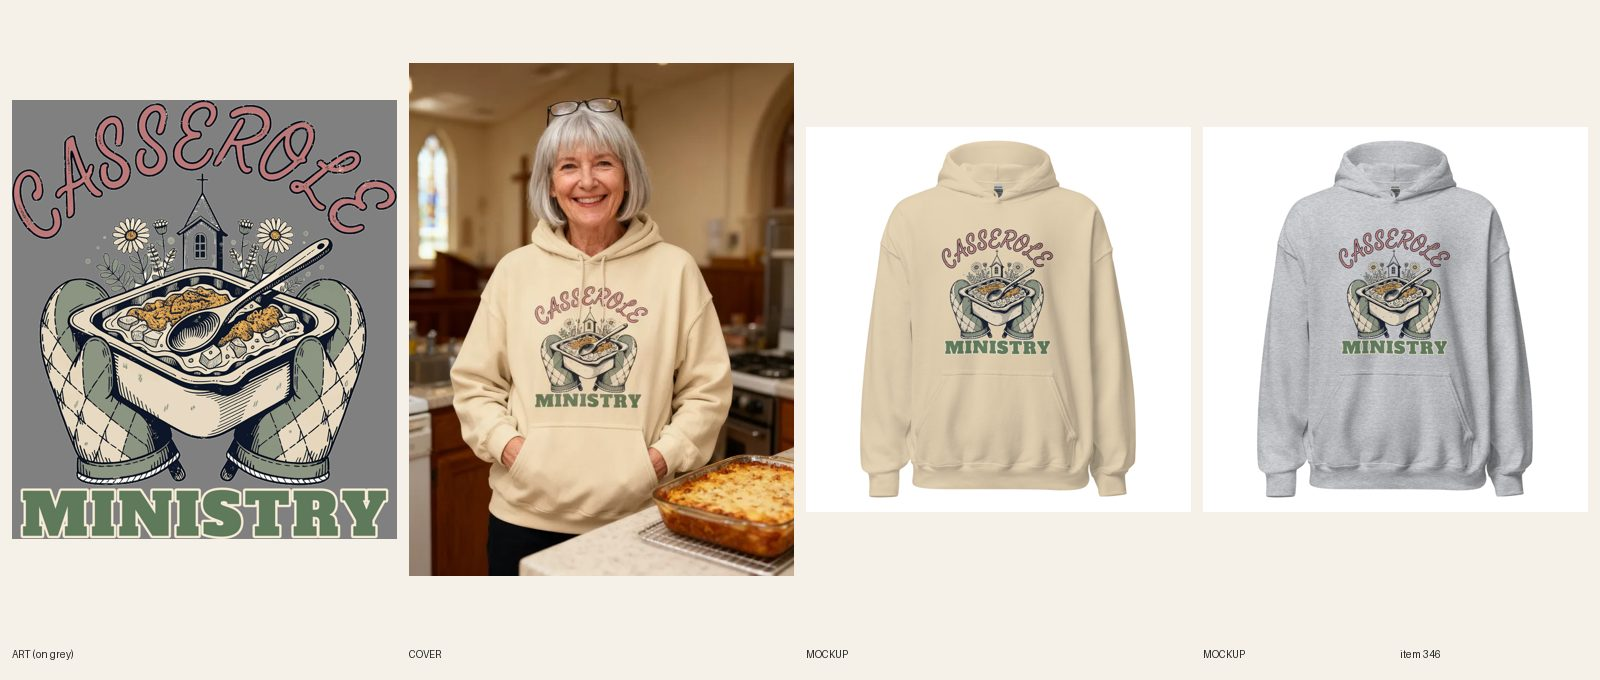
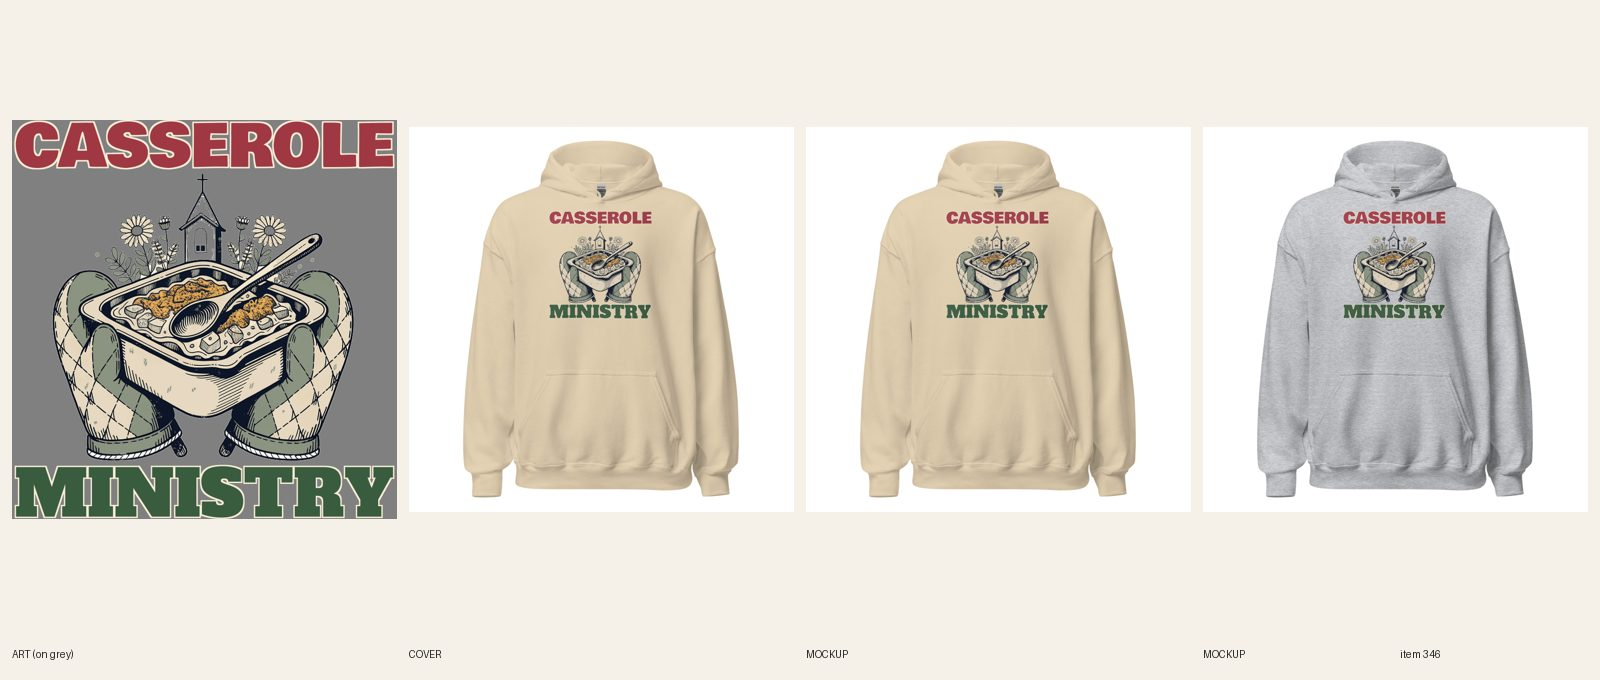
[C] review 346 (redo)
Claude-Session: https://claude.ai/code/session_01CCHcDj8LcJJ8qUPtKE3cvn

Changed region(s): [[0.0, 0.0926, 0.5, 0.8647], [0.8438, 0.3088, 0.9062, 0.525], [0.5938, 0.3088, 0.6562, 0.525]]

diff --git a/designs/c346/make.py b/designs/c346/make.py
@@ -1,0 +1,11 @@
+import sys; sys.path.insert(0,'.')
+from designs.lib import *
+import numpy as np
+im=Image.open('designs/c346/art_clean.png').convert('RGBA'); W=im.width
+a=np.array(im)[:,:,3]; rows=np.where((a>40).any(1))[0]; y0=rows.min(); 
+art=im.crop((0,y0,W,3603)); art=art.crop(art.getbbox()); art=art.resize((int(art.width*0.92),int(art.height*0.92)),Image.LANCZOS)
+ROSE=(160,56,68,255); GREEN=(58,92,62,255)
+for tag,bg in (('sand',(214,196,160,255)),('grey',(160,160,165,255))):
+    h1=line("CASSEROLE",'bowlby',0.985,W,ROSE,CREAM,kw=29); h2=line("MINISTRY",'alfa',0.985,W,GREEN,CREAM,kw=27)
+    print(tag,'headline px',h1.width,'punch px',h2.width,'heights',h1.height,h2.height,'art',art.size)
+    out=lockup(art,W,[h1],[h2],f'346-v2-casserole-{tag}',{tag:bg}); print(out.size,out.height/out.width)

diff --git a/docs/pipeline/346-christian-hoodie-casserole-ministry.md b/docs/pipeline/346-christian-hoodie-casserole-ministry.md
@@ -1,4 +1,4 @@
-status: BUILDING [C] 2026-10-20 09:58
+status: REVIEW
 lane: C
 type: twin
 id: 346
@@ -28,3 +28,4 @@ kd: 50
 - 2026-10-17 21:22 UTC builder [C]: REVIEW. Sync 12/12. Sheet docs/review/346.jpg. design-crops and variant-photo audit cover published products only: rerun when ACTIVE. Local cohesion audit not run (no spec file); copy checked by hand against the art. Twin: MINISTRY re-lettered, see log.
 - 2026-10-17 22:39 UTC director: APPROVED, LIVE. ACTIVE + Online Store, Headless and Google & YouTube; audit --handle PASS (0 warn). Copy polished by the director first (R8: keyword counts, superlatives, false claims).
 - 2026-10-18 17:22 UTC director: QUALITY RESET grade C (new line + type), REDO. The product stays ACTIVE (same handle, URL, title keyword). 1. Line (R3.12, quality-reset 'Lines'): "CASSEROLE / MINISTRY": Church-insider label, not a joke; thin arched script top. Write 5 candidates, keep the one a stranger laughs at in 3 seconds without backstory; kill lines that only describe the picture; if none of the 5 is funny, PARK it. 2. Quality reset type bar (docs/backlog/quality-reset.md, 'The new bar'): headline at least 90% of the art width, heavy, colors pulled from the art; second line at least 45% of the headline's height, never a thin script on a dark or mid garment; use the lettering as a shape (arch, stacked lockup, words breaking into the art), not a plain bar above and a script line below; no font used on more than 1 in 6 of the last 30 designs. 3. Keep the art if it carries the new line, else one new illustration (R4/R5). New print means a new cover per R6.10, copy line one rewritten for the new joke (R8.3), and a fresh review sheet (R7.7). While quality-reset.md says PAUSED, only lane A builds, and only the samples step 2 names.
+- 2026-10-20 10:03 UTC builder [C]: REDO type only (faith insider design, R3.14: judged on lettering; Sam's 2026-10-19 re-grade). Line kept: CASSEROLE / MINISTRY is the same joke as the live tee #127 and crewneck #270 and twins carry the design's line (R3.9), so no new line and the title is unchanged (card 7i not triggered). Old thin rose script arched over the steeple erased from the art with a colour mask (rose pixels, plus leftover specks) and replaced by CASSEROLE in Bowlby One, deep rose with a cream keyline, 98.5% of the print width; MINISTRY in Alfa Slab One, deep green with a cream keyline, 98.5% width. Measured ink widths (card 7h): CASSEROLE 3557 px / MINISTRY 3552 px (99.9%, both about 3,555 px and equally heavy). Art scaled to 92% so the print is 3600 x 3728 (FW 1500 TOP 0, about 1,550 px high). Sand + Sport Grey both light, dark ink, no cream fill: one file; Sand file 1090289536, Sport Grey file 1090289614 (same art; docs/print-files/346-v2-casserole-sand.png / -grey.png). 12/12 relinked (verified on the API). 2 fronts replaced in place, read at phone size. Story and FAQ lettering sentences updated. Handle in retired-covers.json. Plain product shot. fal $0.

diff --git a/docs/intake-log.md b/docs/intake-log.md
@@ -27,6 +27,7 @@ RUNNING lane B since 2026-10-20 09:02 UTC
 2026-10-20 07:44 UTC — [B] Builder run: REDO round 3 of #455 Unisex Hanukkah Lost My Gelt crewneck (dreidel face marks painted out, Navy file 1090236634 + Sport Grey file 1090236680, FW 1650 TOP 0, 12/12 relinked, 2 fronts replaced in place) and #469 Women's Christmas embroidered crewneck (new line BOOKED / THROUGH JANUARY., headline 2197 / punch 2197 px, Sand file 1090237592 + Navy file 1090237605, 12/12 synced, title/SEO/copy/alts updated). Both REVIEW. #498 left for director (R3.14 note). fal $0.
 2026-10-20 08:00 UTC — [E] Builder run: redid #608 Women's Pickleball tee (line + type: POLITE SMILE. / PERSONAL VENDETTA., same serene-lady art, Bevan, dark-ink file on 5 light colors, 30/30 synced). REVIEW. fal $0.
 RUNNING lane C since 2026-10-20 07:00 UTC
+2026-10-20 10:03 UTC — [C] Builder run: redid #346 Women's Christian Casserole Ministry hoodie (type only, faith insider joke kept: CASSEROLE Bowlby rose + MINISTRY Alfa green full width, old arched script erased, Sand file 1090289536 + Sport Grey file 1090289614, FW 1500 TOP 0, 12/12 relinked, 2 fronts replaced in place, copy updated). REVIEW. fal $0.
 2026-10-20 09:58 UTC — [C] Builder run: redid #607 Women's Pickleball hoodie (new line + type: STAY OUT OF THE KITCHEN. / WE'RE TALKING., headline 3305 px / punch 3322 px, Big Shoulders + Bowlby, same three-friends art, Sand file 1090287555 + Navy file 1090287613, FW 1500 TOP 0, 12/12 relinked, 2 fronts replaced in place, title + copy + SEO updated). REVIEW. fal $0.
 2026-10-20 09:52 UTC — [C] Builder run: redid #626 Women's Softball Mom zip hoodie (twin of #535: TRAVEL BALL: / PAY TO SUNBURN., new camp-chair art, Ash file 1090285645 + Navy file 1090285675, chest 1090285470, BW 1650 BT 225, 12/12 relinked, back mockups replaced, title + copy + SEO updated). REVIEW. fal $0.
 2026-10-20 09:46 UTC — [C] Builder run: redid #571 Women's Teacher zip hoodie (new line + type: IT'S RAINING. / SEND COFFEE., headline 2980 px / punch 3042 px, Big Shoulders + Bowlby, same apple art, Ash file 1090283743 + Navy file 1090283769, BW 1650 BT 225, 12/12 relinked, back mockups replaced, title + copy + SEO updated). REVIEW. fal $0.
